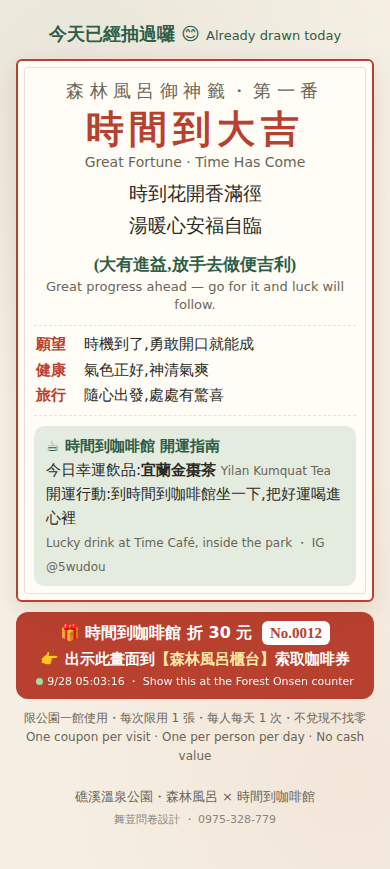
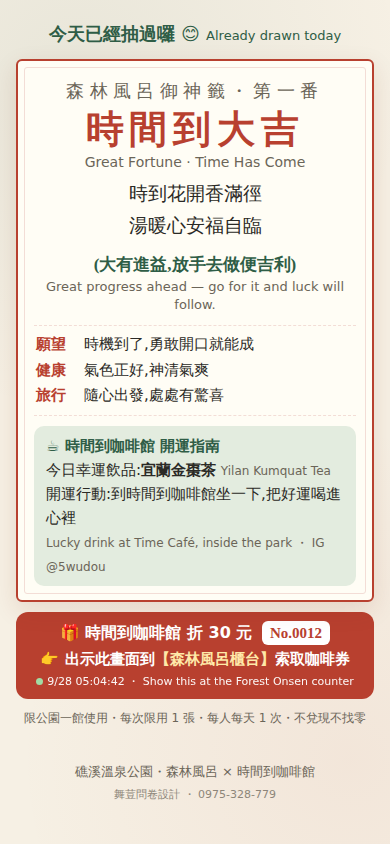
御神籤:使用規則移除英文
Claude-Session: https://claude.ai/code/session_01F6yyhJXwLMGLQPqwSGyNKN

Changed region(s): [[0.0308, 0.0308, 0.9846, 0.955]]

diff --git a/行銷/森林風呂御神籤/Index.html b/行銷/森林風呂御神籤/Index.html
@@ -248,7 +248,7 @@
       <div class="c2">👉 出示此畫面到<b>【森林風呂櫃台】</b>索取咖啡券</div>
       <div class="c3"><span class="live"><span class="dot"></span><span id="clock"></span></span> ・ Show this at the Forest Onsen counter</div>
     </div>
-    <div class="rules">限公園一館使用・每次限用 1 張・每人每天 1 次・不兌現不找零<br>One coupon per visit · One per person per day · No cash value</div>
+    <div class="rules">限公園一館使用・每次限用 1 張・每人每天 1 次・不兌現不找零</div>
   </section>
 
   <div class="foot">礁溪溫泉公園・森林風呂 × 時間到咖啡館
